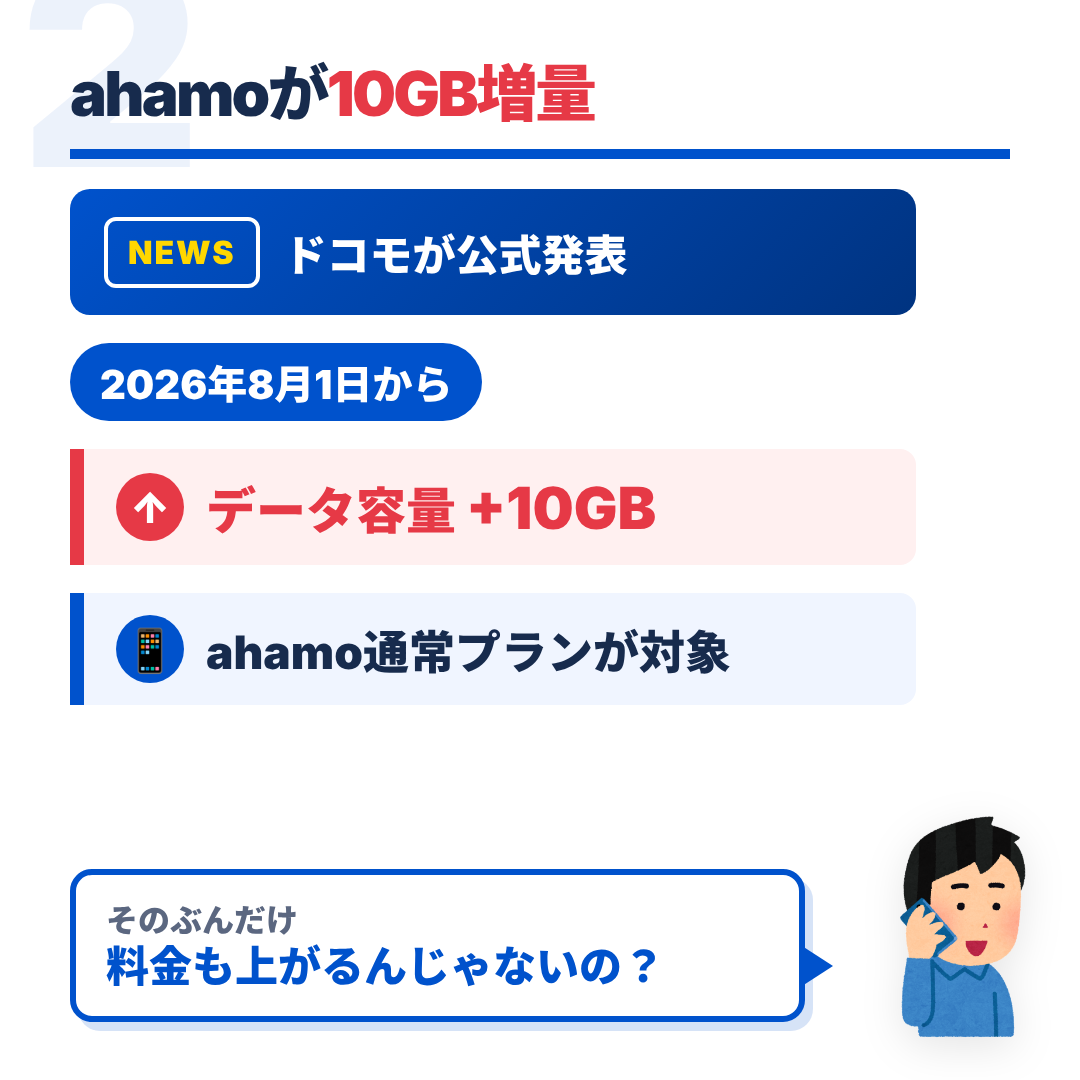
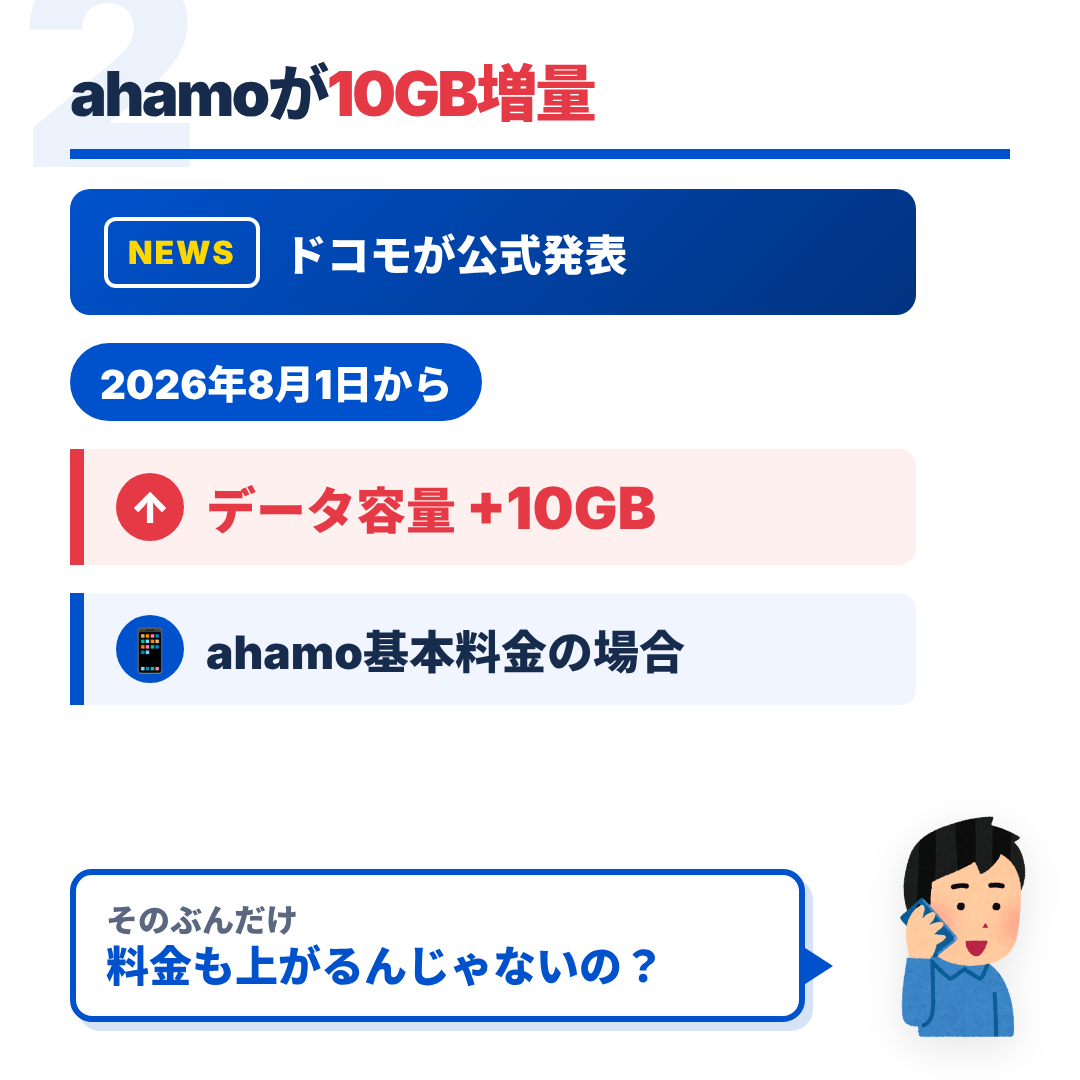
スライド改修

Changed region(s): [[0.3361, 0.5806, 0.6722, 0.6417]]

diff --git a/slides-short.html b/slides-short.html
@@ -499,7 +499,7 @@ img {
     </div>
     <div class="date-badge">2026年8月1日から</div>
     <div class="info-card alert"><span>↑</span><b>データ容量 <strong>+10GB</strong></b></div>
-    <div class="info-card"><span>📱</span><b>ahamo通常プランが対象</b></div>
+    <div class="info-card"><span>📱</span><b>ahamo基本料金の場合</b></div>
   </div>
   <div class="question-callout">
     <span>そのぶんだけ</span>
@@ -508,11 +508,11 @@ img {
   <div class="slide-illust news-illust" style="z-index: 2;"><img src="public/images/irasutoya/smartphone_talk03_man.png" alt="スマホで速報を確認する人"></div>
 </div>
 <!-- Slide ID: 3 -->
-<!-- CSV表示内容: ahamo通常プラン／Before：30GB・月額2,970円／After：40GB・月額2,970円（据え置き） -->
+<!-- CSV表示内容: ahamo基本料金／Before：30GB・月額2,970円／After：40GB・月額2,970円（据え置き） -->
 <div class="slide-container price-note" data-slide-id="3">
   <div class="watermark">3</div>
   <h2 class="slide-title">料金据え置きで<em>40GB</em></h2>
-  <div class="brand-line"><img src="public/images/logo/Ahamo_logo.png" alt="ahamo"><strong>ahamo通常プラン</strong></div>
+  <div class="brand-line"><img src="public/images/logo/Ahamo_logo.png" alt="ahamo"><strong>ahamo基本料金</strong></div>
   <div class="before-after">
     <section class="capacity-card before">
       <span class="card-label">BEFORE</span>
@@ -539,7 +539,7 @@ img {
     <div class="auto-stamp"><span>AUTO</span><strong>自動適用</strong></div>
     <div class="info-card alert"><span>✓</span><b>今使っている人は何もしなくてOK</b></div>
     <div class="procedure-flow">
-      <span class="flow-card">申し込み</span><b>→</b><span class="flow-card zero">0回</span>
+      <span class="flow-card">手続き</span><b>→</b><span class="flow-card zero">0回</span>
     </div>
   </div>
   <div class="slide-illust confirm-illust" style="z-index: 2;"><img src="public/images/irasutoya/pose_yubisashi_kakunin_businesswoman.png" alt="手続き不要を確認する人"></div>

diff --git a/generate_short_slides_39.py b/generate_short_slides_39.py
@@ -189,7 +189,7 @@ def render(slides: OrderedDict[str, str], dialogues: dict[str, list[str]]) -> st
     </div>
     <div class="date-badge">{esc(news_match.group('date'))}から</div>
     <div class="info-card alert"><span>↑</span><b>データ容量 <strong>+{esc(news_match.group('gain'))}</strong></b></div>
-    <div class="info-card"><span>📱</span><b>ahamo通常プランが対象</b></div>
+    <div class="info-card"><span>📱</span><b>大盛りオプションなしが対象</b></div>
   </div>
   <div class="question-callout">
     <span>{esc(question_match.group('context'))}</span>
